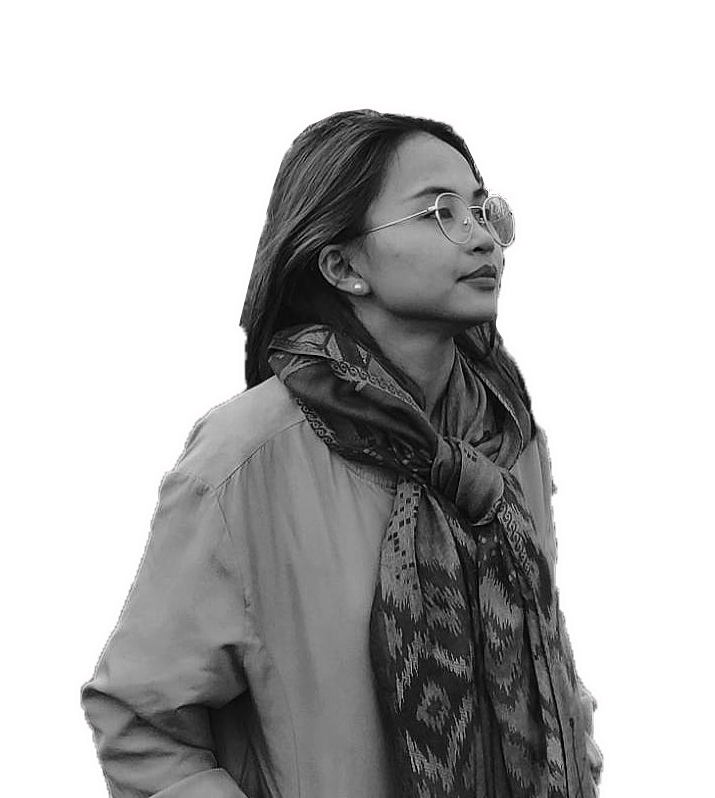
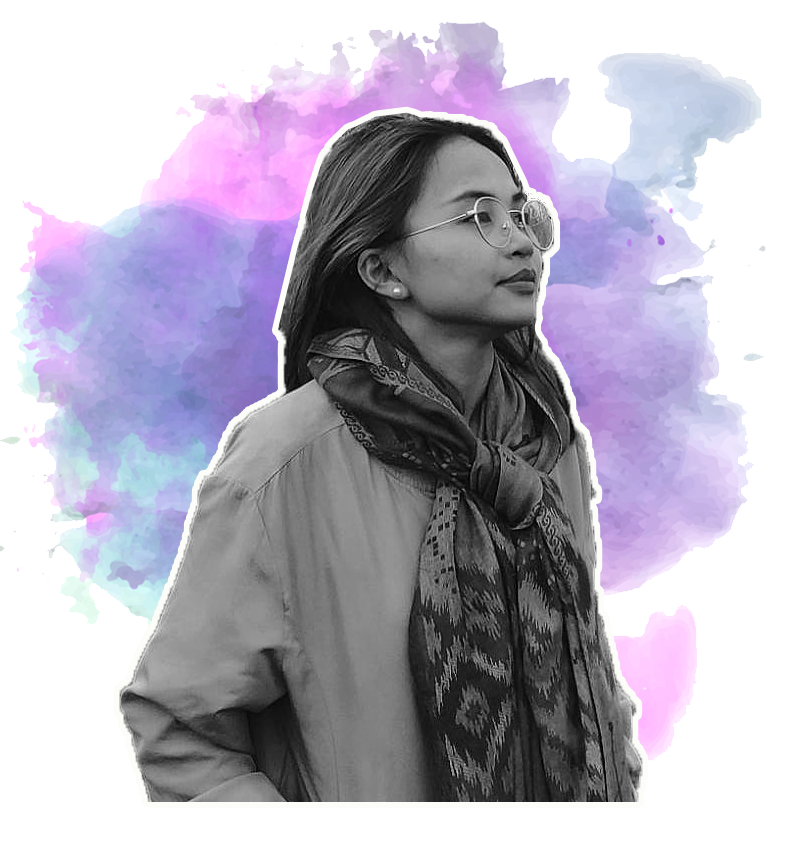
fix about-me indent

diff --git a/index.html b/index.html
@@ -217,14 +217,15 @@
     </div>
     <div id="about" class="container-fluid py-5 text-center" style="background-color:#d98481">
         <h2 class="py-2">ABOUT</h2>
-        <div class="row about-row">
+        <div class="row about-row py-5 my-2">
             <div class="col-md-4 my-3" data-aos="fade-up-right">
-                <img src="./assets/images/about-me-sha.png" alt="my-pic" width="100%">
+                <img src="./assets/images/me-me.jpg" alt="my-pic" width="80%" style="border-radius: 50%;">
             </div>
             <div class="col-md-8 about-desc my-3" data-aos="fade-up-right">
                 <div>
                     <p style="font-family: 'Great Vibes', cursive; font-size: 40px;">Hello!</p>
-                    <p>I'm Sharmane Burlaza, a web developer and designer based in the Philippines. I graduated with a degree in BS Architecture and worked as an architect in construction industry before going to the web development route. I enjoy building things and passionate about design and problem solving, hence I got interested in programming.</p>
+                    <p style="text-align: left;">I'm Sharmane Burlaza, a web developer and designer based in the Philippines. I graduated with a degree in BS Architecture and worked as an architect in construction and real-estate industry before going to the web development path. My journey with coding started with surfing for free resources in the internet and then enrolled in a coding bootcamp. I liked building things and passionate about design and problem solving, hence I got interested in programming.</p>
+                    <!-- <p style="text-align: left;">When I'm not coding, you'll find me watching shows in Netflix (Avatar: the Last Airbender is my all-time favorite), reading books (any genre) and just chilling at home.</p> -->
                 </div>
             </div>
         </div>
